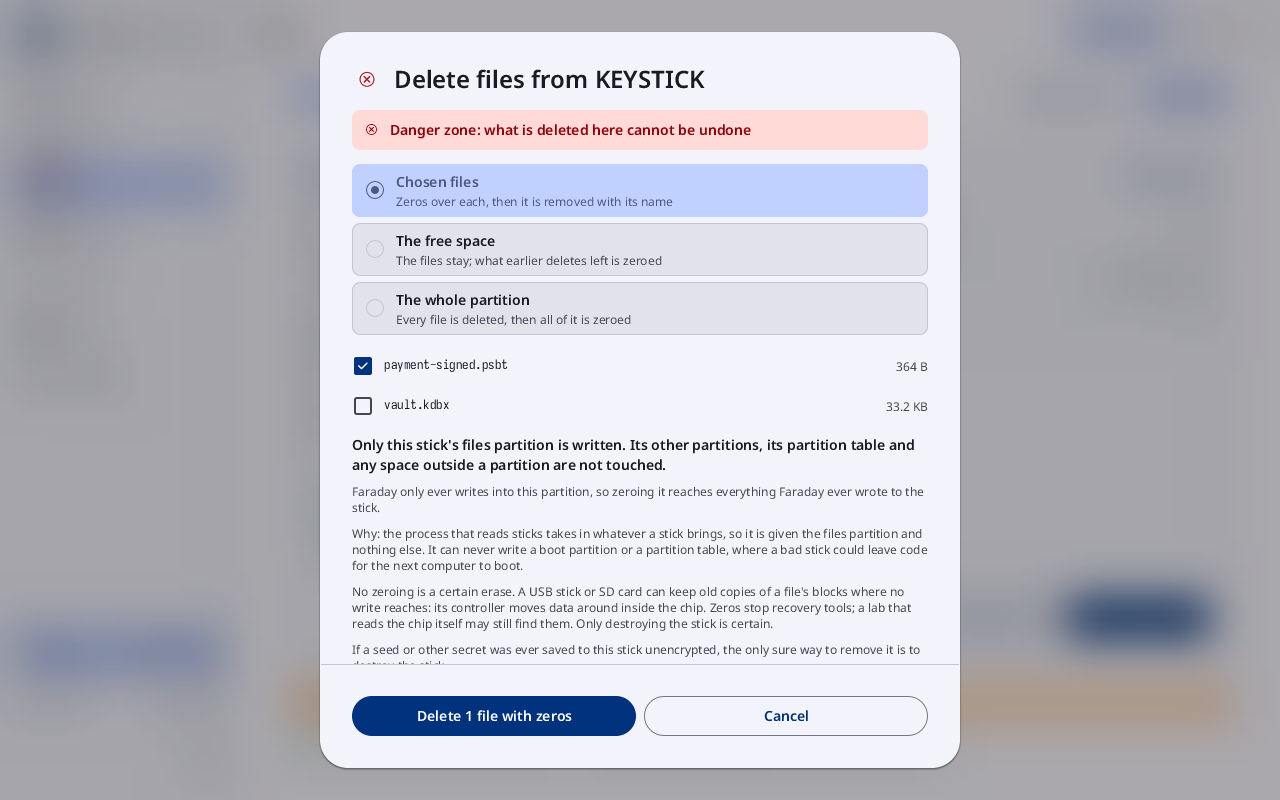
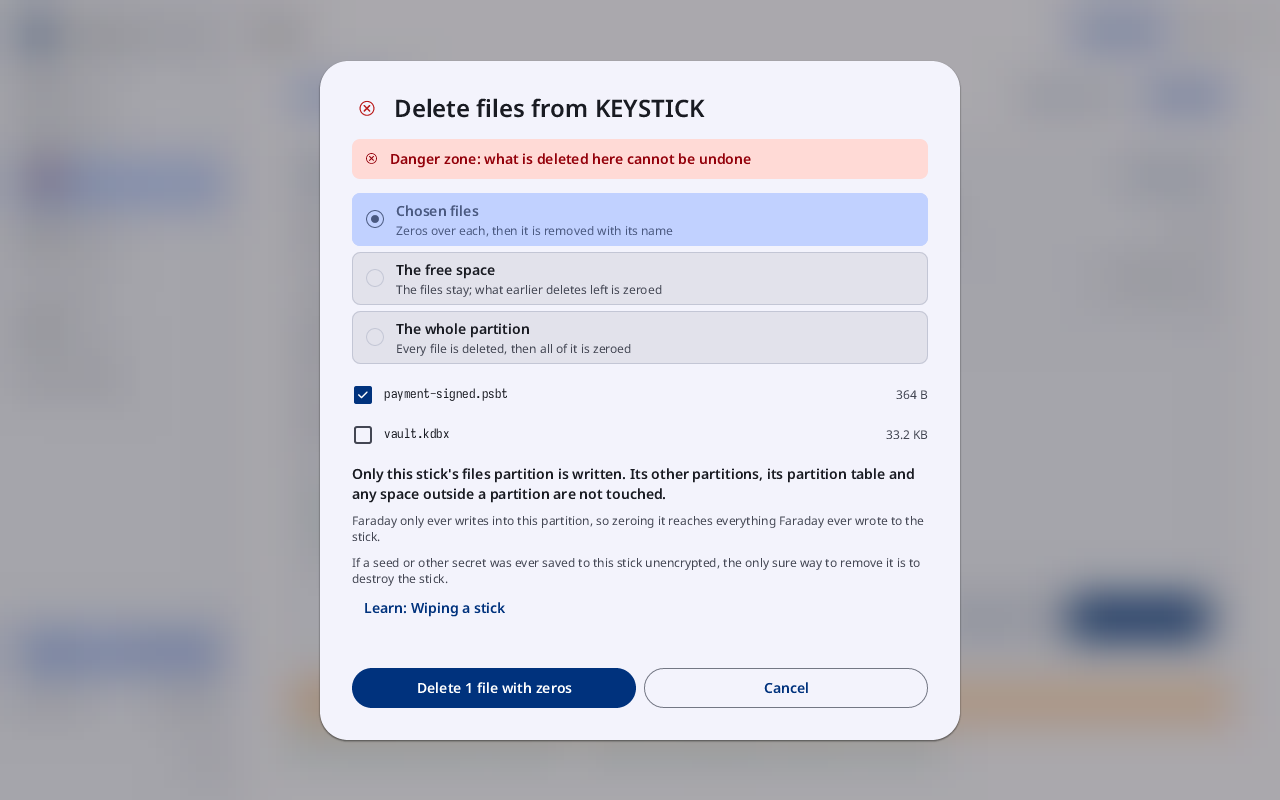
The Delete files sheet no longer explains: the paragraphs on why only the files partition is written and on why no zeroing is a certain erase move to a Learn page, Wiping a stick, which a "Learn: Wiping a stick" link under the sheet's text opens; the sheet keeps the line that only destroying a stick
Material: Bottom sheets (the sheet keeps its text, one ghost text button and its actions)
Reviewed: strings.no-explanation
Reviewed: strings.plain
Reviewed: repo.tests-kept
Reviewed: tree.image-metadata
Reviewed: crypto.kept-values
Reviewed: crypto.costs-said
Reviewed: keys.secret-files
Reviewed: keys.child-vault-only
Reviewed: structure.areas-private
Reviewed: strings.medium
Claude-Session: https://claude.ai/code/session_01Nu65eLBJM4NT1m1CDxYgZS

Changed region(s): [[0.25, 0.0312, 0.75, 0.9688], [0.6875, 0.4375, 0.7188, 0.4688]]

diff --git a/faraday/faraday-core/src/stick/wipe.rs b/faraday/faraday-core/src/stick/wipe.rs
@@ -28,15 +28,12 @@ use crate::ui::pal::*;
 use crate::ui::{Style, Ui};
 use crate::{Action, Faraday, Sheet, StorageCommand};
 
-/// What zeros do not reach.
-const LIMIT: &str = EN.stick_wipe_no_zeroing;
 /// What the partition holds of Faraday's.
 const REACH: &str = EN.stick_wipe_faraday;
 /// What only destroying the stick removes.
 const SECRET: &str = EN.stick_wipe_if_a_seed;
 /// That nothing outside the files partition is written, and why.
 const WITHIN: &str = EN.stick_wipe_within;
-const BOUNDARY: &str = EN.stick_wipe_boundary_why;
 
 /// How fast a typical stick is written and read back, MB a second, for
 /// the time the sheet says before the first step measures it.
@@ -648,9 +645,8 @@ pub(crate) fn delete_sheet(app: &View, ui: &mut Ui, w: f32, h: f32) {
         }
         cy += ui.wrap_as((x, cy, iw), LABEL_L, Role::OnSurface, WITHIN) + 8.0;
         cy += ui.wrap_as((x, cy, iw), BODY_S, Role::OnSurfaceVariant, REACH) + 10.0;
-        cy += ui.wrap_as((x, cy, iw), BODY_S, Role::OnSurfaceVariant, BOUNDARY) + 10.0;
-        cy += ui.wrap_as((x, cy, iw), BODY_S, Role::OnSurfaceVariant, LIMIT) + 10.0;
-        cy += ui.wrap_as((x, cy, iw), BODY_S, Role::OnSurfaceVariant, SECRET) + 12.0;
+        cy += ui.wrap_as((x, cy, iw), BODY_S, Role::OnSurfaceVariant, SECRET);
+        cy += crate::flow::learn_link(ui, x, cy, iw, crate::learn::Topic::WipingAStick) + 12.0;
         // A vault chosen is deleted by a hold (decision 4); zeroing the
         // free space or the partition is a hold too (F131).
         if hold {

diff --git a/faraday/faraday-strings/src/en.rs b/faraday/faraday-strings/src/en.rs
@@ -8586,7 +8586,6 @@ strings! {
     stick_settings_not_written: "{} not written: {}",
     // ----- stick_wipe (faraday-core/src/stick/wipe.rs) -----
     /// Text in `LIMIT`.
-    stick_wipe_no_zeroing: "No zeroing is a certain erase. A USB stick or SD card can keep old copies of a file's blocks where no write reaches: its controller moves data around inside the chip. Zeros stop recovery tools; a lab that reads the chip itself may still find them. Only destroying the stick is certain.",
     /// Text in `REACH`.
     stick_wipe_faraday: "Faraday only ever writes into this partition, so zeroing it reaches everything Faraday ever wrote to the stick.",
     /// Text in `SECRET`.
@@ -8594,7 +8593,6 @@ strings! {
     /// Text in `WITHIN`.
     stick_wipe_within: "Only this stick's files partition is written. Its other partitions, its partition table and any space outside a partition are not touched.",
     /// Text in `BOUNDARY`.
-    stick_wipe_boundary_why: "Why: the process that reads sticks takes in whatever a stick brings, so it is given the files partition and nothing else. It can never write a boot partition or a partition table, where a bad stick could leave code for the next computer to boot.",
     /// Text in `minutes_text`.
     stick_wipe_about_minute: "about a minute",
     /// Text in `minutes_text`. `{}`: `m`.

diff --git a/faraday/faraday-learn/src/lib.rs b/faraday/faraday-learn/src/lib.rs
@@ -33,7 +33,7 @@ pub use pages::{Page, Section};
 /// (`docs/learn/faraday/boot/*.md`) are `faraday-guides`' own table, not
 /// this one, except `replace-faraday`, which the Starter's Keep data
 /// shows ([`known`]).
-const OWN: [(&str, &str); 11] = [
+const OWN: [(&str, &str); 12] = [
     // A multisig backup's shares (`docs/history/NEW-WALLET.md` §4.2).
     (
         "shares",
@@ -69,6 +69,11 @@ const OWN: [(&str, &str); 11] = [
     (
         "vaults",
         include_str!("../../../docs/learn/faraday/vaults.md"),
+    ),
+    // What wiping a stick reaches and what it does not.
+    (
+        "wiping-a-stick",
+        include_str!("../../../docs/learn/faraday/wiping-a-stick.md"),
     ),
     // The three Secure Boot keys (`docs/CRYPTO-LEARN.md` §12).
     (
@@ -348,6 +353,11 @@ pub fn backup_plan_check_page() -> &'static LearnPage {
 /// "Extra copies".
 pub fn extra_copies_page() -> &'static LearnPage {
     known("extra-copies")
+}
+
+/// "Wiping a stick".
+pub fn wiping_a_stick_page() -> &'static LearnPage {
+    known("wiping-a-stick")
 }
 
 /// "Practice and its public seeds".

diff --git a/faraday/faraday-core/src/learn.rs b/faraday/faraday-core/src/learn.rs
@@ -82,6 +82,8 @@ pub enum Topic {
     BackupPlanCheck,
     /// Vaults.
     Vaults,
+    /// Wiping a stick, from the wipe sheet.
+    WipingAStick,
     /// Extra copies, from the backup's last card.
     ExtraCopies,
 }
@@ -112,6 +114,7 @@ impl Topic {
         Topic::Shares,
         Topic::BackupPlanCheck,
         Topic::Vaults,
+        Topic::WipingAStick,
     ];
 
     /// The label of the link to this page, made once and kept: drawing
@@ -161,6 +164,7 @@ impl Topic {
             Topic::Shares => shares_page(),
             Topic::BackupPlanCheck => backup_plan_check_page(),
             Topic::Vaults => vaults_page(),
+            Topic::WipingAStick => faraday_learn::wiping_a_stick_page(),
             Topic::ExtraCopies => faraday_learn::extra_copies_page(),
         }
     }

diff --git a/docs/learn/faraday/wiping-a-stick.md b/docs/learn/faraday/wiping-a-stick.md
@@ -1,0 +1,13 @@
+# Wiping a stick
+
+## What Faraday writes
+
+Faraday writes only into a stick's files partition. The stick's other partitions, its partition table and any space outside a partition are not touched, so zeroing the files partition reaches everything Faraday ever wrote to the stick.
+
+## Why only the files partition
+
+The process that reads sticks takes in whatever a stick brings, so it is given the files partition and nothing else. It can never write a boot partition or a partition table, where a bad stick could leave code for the next computer to boot.
+
+## What zeros do not reach
+
+No zeroing is a certain erase. A USB stick or SD card can keep old copies of a file's blocks where no write reaches: its controller moves data around inside the chip. Zeros stop recovery tools; a lab that reads the chip itself may still find them. Only destroying the stick is certain.
